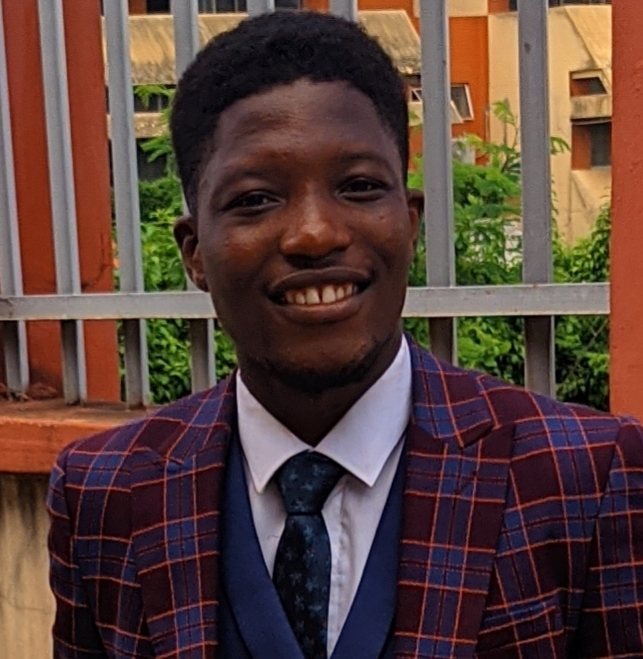
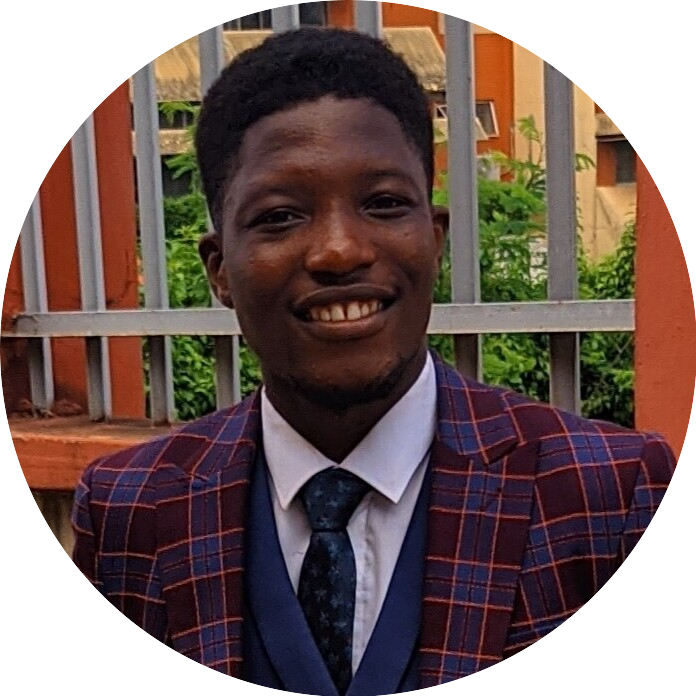
h

diff --git a/portfolio/index.html b/portfolio/index.html
@@ -33,7 +33,7 @@
                             &emsp; &emsp; &emsp; &emsp;&emsp; &emsp; &emsp; &emsp;
                             &emsp; &emsp; &emsp; &emsp;&emsp; &emsp; &emsp; &emsp;
                             &emsp; &emsp; &emsp; &emsp;&emsp; &emsp; &emsp; &emsp;
-                            &emsp; &emsp; &emsp; &emsp;
+                            &emsp; &emsp; &emsp; &emsp; &emsp; &emsp; &emsp;
                                 <a href="https://www.facebook.com/osemegbe.emmanuel"><font color=#1c2542>Facebook</font></a> &emsp; &emsp;
                                 <a href="https://www.linkedin.com/in/osemegbe-emuemhonjie-962431150"><font color=#1c2542>LinkedIn</font></a> &emsp; &emsp;
                                 <a href="https://twitter.com/hy_Ocee"><font color=#1c2542>Twitter</font></a> &emsp; &emsp;
@@ -44,7 +44,7 @@
                 </tr>
                 <!-- About Me Row (large) -->
                 <tr>
-                    <td colspan="3">
+                    <td colspan="3" >
                         <blockquote>
                             <h3><font color=#1c2542 size=+3>Meet Osemegbe,</font></h3>
                             <p><font color=#1c2542>
@@ -56,14 +56,22 @@
                             <br><br>
                         <!-- Hire Me Button -->
                             <table width=100>
-                            <tr height=50 bgcolor=#4f4d58 align=center><td><a href="#contact_form"><font color=#f1f1f1>Hire Me</font></a></td></tr>
-                        </table>
+                                <tr height=55  align=center>
+                                    <td>
+                                        <marquee width=100% height=50 behavior="alternate" scrolldelay=500 direction="down" loop="3">
+                                            <table align="center" width=100 height=47 bgcolor=#1c2542>
+                                                <tr align="center"><td><a href="#contact_form"><font align=center color=#f1f1f1>Hire Me</font></a></td></tr>
+                                            </table>
+                                        </marquee>
+                                    </td>
+                                </tr>
+                            </table>
                         </blockquote>
                         
                     </td>
                     <!-- my picture -->
-                    <td>
-                        <center><img src="images/developer.png" width=70% alt=""></center>
+                    <td bgcolor="">
+                        <img src="images/developer3.png" width=70% alt="">
                     </td>
                 </tr>
 
@@ -98,22 +106,36 @@
                 <tr height=200 bgcolor=#f1f1f1>
                     <td>
                         <blockquote>
-                            <p><code><font size=+1 color=#1c2542>&emsp; - &nbsp; Conflict Management</font></code></p>
+                            <p align=left><font size=+1><strong>Soft Skills</strong></font></p>
                             <p><code><font size=+1 color=#1c2542>&emsp; - &nbsp; Critical Thinking</font></code></p>
+                            <p><code><font size=+1 color=#1c2542>&emsp; - &nbsp; Communication</font></code></p>
+                            <p><code><font size=+1 color=#1c2542>&emsp; - &nbsp; Time Management</font></code></p>
                             <p><code><font size=+1 color=#1c2542>&emsp; - &nbsp; Leadership</font></code></p>
                         </blockquote>
                     </td>
                     <td>
+                        <table bgcolor=#4f4d58 width=100% cellspacing=2>
+                            <tr><td><br><font color=#f1f1f1 size=+1><strong>&nbsp; &nbsp; Projects</strong></font></td></tr>
+                            <tr height=40><td><code><font size=+1 color=#f1f1f1>&emsp; HTML Documentation&emsp; &emsp; &emsp;&emsp; &rArr;</font></code></td></tr>
+                            <tr height=40><td><code><font size=+1 color=#f1f1f1>&emsp; HTML Invoice&emsp; &emsp; &emsp;&emsp; &emsp;&emsp;&emsp;&emsp;&emsp; &rArr;</font></code></td></tr>
+                            <tr height=40><td><code><font size=+1 color=#f1f1f1>&emsp; HTML Letter&emsp; &emsp; &emsp;&emsp; &emsp;&emsp;&emsp;&emsp;&emsp;&emsp; &rArr;</font></code></td></tr>
+                            <tr height=40><td><code><font size=+1 color=#f1f1f1>&emsp; Web Tutorial Page&emsp; &emsp; &emsp;&emsp;&emsp; &rArr;</font></code></td></tr>
+                        </table>
+                    </td>
+                    <td>
                         <blockquote>
-
-                            <h3><font>HTML Documentation</font></h3>
-                            <h3><font>Landing Pages</font></h3>
+                            <p align=left><font size=+1><strong>Interests</strong></font></p>
+                            <p><code><font size=+1 color=#1c2542>- &nbsp; Fishing</font></code></p>
+                            <p><code><font size=+1 color=#1c2542>- &nbsp; Hiking</font></code></p>
+                            <p><code><font size=+1 color=#1c2542>- &nbsp; Soccer</font></code></p>
+                            <p><code><font size=+1 color=#1c2542>- &nbsp; Tennis </font></code></p>
                         </blockquote>
                     </td>
-                    <td colspan="2" >
+                    <td bgcolor=#4f4d58>
                         <blockquote>
-                            <h3>Internship at <abbr title="Software Business Solutions Consulting">SBSC</abbr></h3>
-                            <p>In January 2022, Lorem ipsum dolor sit amet consectetur adipisicing elit. Unde velit cum perspiciatis. Voluptates dolore magnam eaque eum alias nulla, totam molestias esse odit, ab at. Dolore neque in molestias atque!</p>
+                            <h3><font color=#f1f1f1>Internship at <abbr title="Software Business Solutions Consulting">SBSC</abbr></font></h3>
+                            <p align=justify><font color=#f1f1f1>In January 2022, I Lorem ipsum dolor sit amet consectetur adipisicing elit. Unde velit cum perspiciatis. Voluptates 
+                                Lorem ipsum dolor sit amet consectetur adipisicing elit. Unde  perspiciatis. Voluptat Unde velit cum perspiciatis. Voluptat dolore magnam eaque eum alias nulla, totam molestias esse odit, ab at. Dolore neque in molestias atque!</font></p>  
                         </blockquote>
                     </td>
                 </tr>
